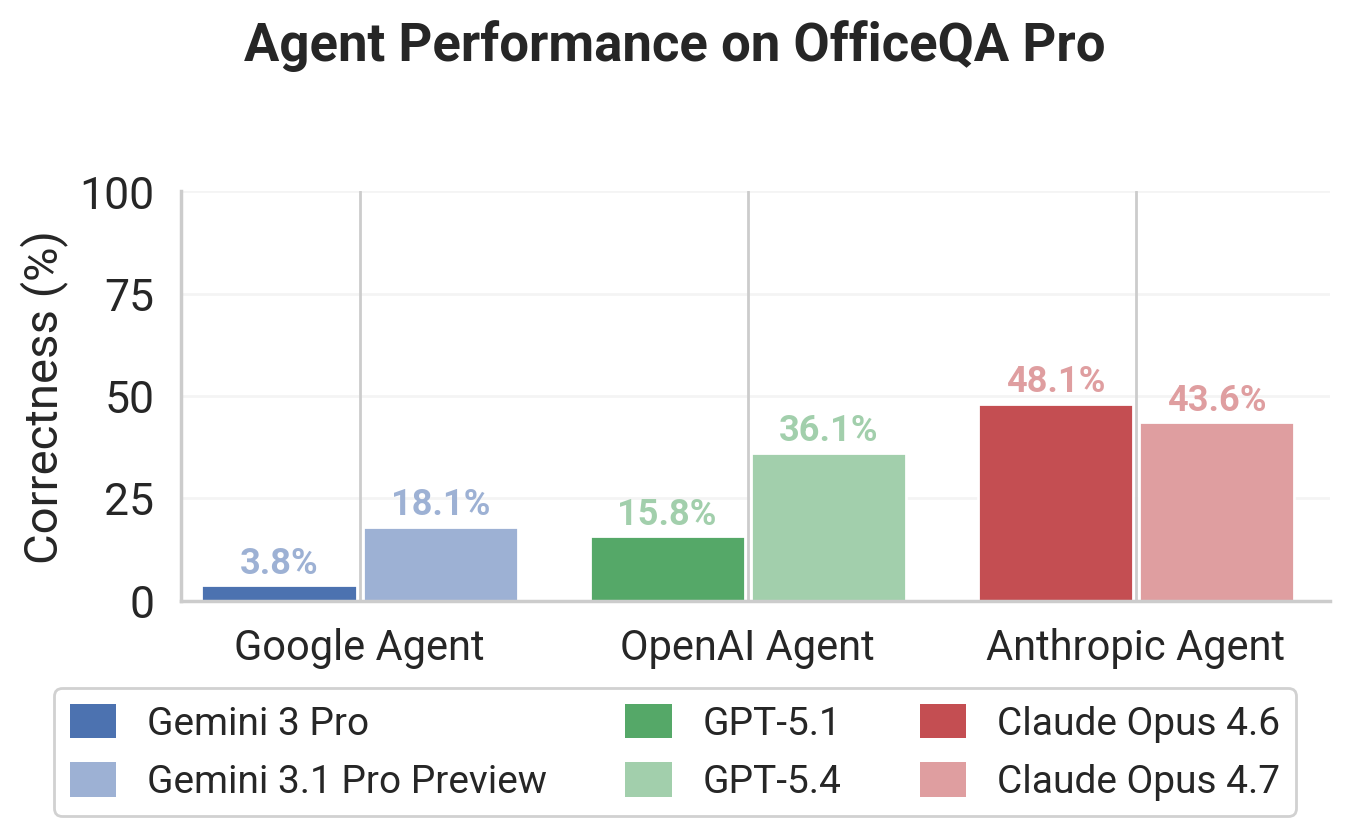
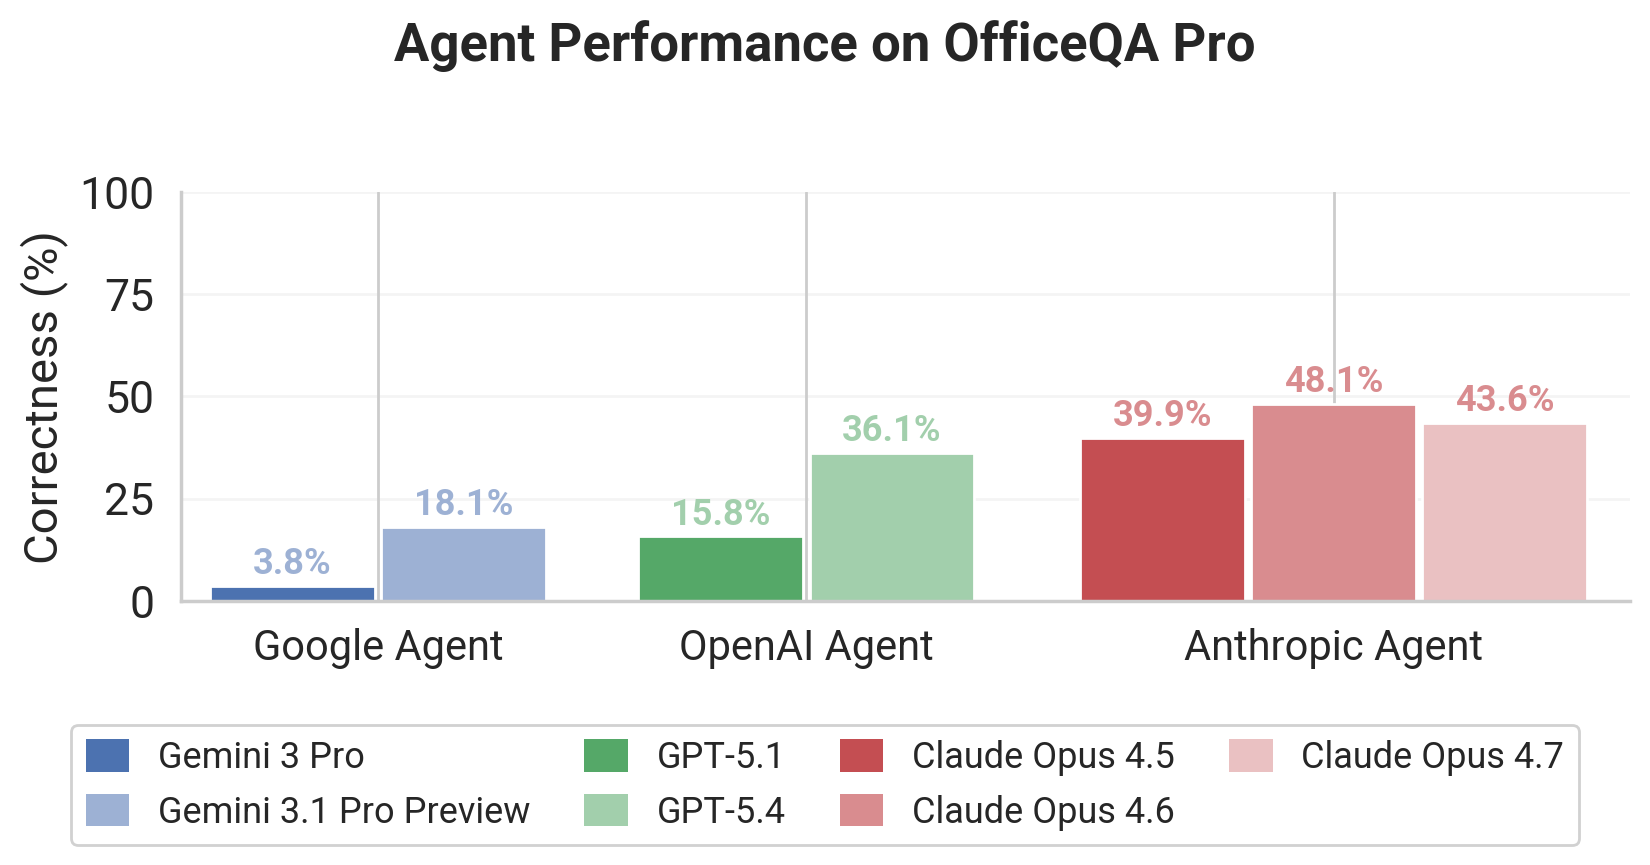
update figure for benchmarking progression

diff --git a/README.md b/README.md
@@ -1,38 +1,44 @@
-<div align="center">
-  <h1>OfficeQA</h1>
-  <p>A Grounded Reasoning Benchmark by Databricks</p>
-</div>
-<p align="center"><img width="300" src="logo.png"/></p>
+# OfficeQA
+
+A Grounded Reasoning Benchmark by Databricks
+
+
 
 **OfficeQA** is a benchmark by Databricks, built for evaluating model / agent performance on end to end **Grounded Reasoning** tasks. The benchmark is split into two subsets:
+
 1. **OfficeQA Pro**: The default for evaluating frontier models (N=133)
 2. **OfficeQA Full**: A version of the benchmark containing additional easier questions to hillclimb systems on (N=246)
 
 Additional details:
-* Questions require the **[U.S Treasury Bulletin](https://fraser.stlouisfed.org/title/treasury-bulletin-407?browse=1930s)** documents to answer
-* Datasets released under **CC-BY-SA 4.0** and code and scripts under **Apache 2.0 License**.
-* For more information, see the **[OfficeQA Technical Report](https://arxiv.org/abs/2603.08655)**
+
+- Questions require the **[U.S Treasury Bulletin](https://fraser.stlouisfed.org/title/treasury-bulletin-407?browse=1930s)** documents to answer
+- Datasets released under **CC-BY-SA 4.0** and code and scripts under **Apache 2.0 License**.
+- For more information, see the **[OfficeQA Technical Report](https://arxiv.org/abs/2603.08655)**
 
 ## Overview
 
 OfficeQA evaluates how well AI systems can reason over real-world documents to answer complex questions. The benchmark uses historical U.S. Treasury Bulletin PDFs (1939-2025), which contain dense financial tables, charts, and text data.
 
 **Repository Contents:**
+
 - `officeqa_pro.csv` - The default benchmark for evaluating frontier models (N=133)
 - `officeqa_full.csv` - A version of the benchmark containing additional easier questions to hillclimb systems on (N=246)
 - `reward.py` - Evaluation script for scoring model outputs
 - `treasury_bulletin_pdfs/` - Original source PDF documents (696 files, ~20GB)
 - `treasury_bulletins_parsed/` - Parsed and transformed versions (see more details below)
 
-**Dataset Schema (`officeqa_pro.csv` / `officeqa_full.csv`):**
-| Column | Description |
-|--------|-------------|
-| `uid` | Unique question identifier |
-| `question` | The question to answer |
-| `answer` | Ground truth answer |
-| `source_docs` | Original URL(s) from the Federal Reserve Archive |
+**Dataset Schema (**`officeqa_pro.csv` **/** `officeqa_full.csv`**):**
+
+
+| Column         | Description                                                              |
+| -------------- | ------------------------------------------------------------------------ |
+| `uid`          | Unique question identifier                                               |
+| `question`     | The question to answer                                                   |
+| `answer`       | Ground truth answer                                                      |
+| `source_docs`  | Original URL(s) from the Federal Reserve Archive                         |
 | `source_files` | Corresponding parsed filename(s) (e.g., `treasury_bulletin_1941_01.txt`) |
-| `difficulty` | `easy` or `hard` |
+| `difficulty`   | `easy` or `hard`                                                         |
+
 
 ## Results
 
@@ -42,24 +48,32 @@ Headline results on **OfficeQA Pro** (N=133). See the [OfficeQA Technical Report
 
 End-to-end performance of frontier agents operating over the Treasury Bulletin corpus.
 
-![Agent Performance on OfficeQA Pro](figures/officeqa_pro_agent_harness_performance.png)
+GPT-5.1 and Opus 4.5 Results included as reference point to results from the [OfficeQA blog](https://www.databricks.com/blog/introducing-officeqa-benchmark-end-to-end-grounded-reasoning) and re-run with latest OfficeQA Pro. Recorded on March 9 2026.
+
+GPT-5.4 and Opus 4.6 Results recorded on March 9 2026.
+Opus 4.7 Results recorded on April 21 2026.
+
+Agent Performance on OfficeQA Pro
 
 ### LLM with Oracle Page(s) + Web Search (PDF Only)
 
 LLM performance when provided the oracle page(s) needed to answer each question along with web search access, evaluated across varying absolute relative error tolerances.
 
-![Oracle Pages + Web Search — PDF Only](figures/officeqa_pro_llm_oracle_pdf_with_web_search.png)
+Oracle Pages + Web Search — PDF Only
 
 ## Getting Started
 
 ### 1. Clone the repository
+
 ```bash
 git clone https://github.com/databricks/officeqa.git
 cd officeqa
 ```
+
 NOTE: This may take a long time due to the large amount of PDF documents in `treasury_bulletin_pdfs`.
 
 ### 2. Load the dataset
+
 ```python
 import pandas as pd
 
@@ -77,14 +91,18 @@ print(f"OfficeQA Full questions: {len(df_full)}")  # 246
 We provide the Treasury Bulletin corpus in multiple formats:
 
 #### Option A: Original PDFs (`treasury_bulletin_pdfs/`)
+
 The raw PDF documents as downloaded from the Federal Reserve Archive. Use these if your system can process PDFs directly.
+
 - **696 PDF files** covering 1939-2025
 - Total size: ~20GB
 
 #### Option B: Parsed Documents (`treasury_bulletins_parsed/`)
+
 Pre-parsed versions of the PDFs. The files are distributed as zip archives to stay within Git file size limits.
 
 **Structure:**
+
 ```
 treasury_bulletins_parsed/
 ├── jsons/                    # Parsed JSON files with full structure
@@ -98,12 +116,14 @@ treasury_bulletins_parsed/
 ```
 
 **To extract the files:**
+
 ```bash
 cd treasury_bulletins_parsed
 python unzip.py
 ```
 
 This will extract:
+
 - `jsons/*.json` - Full parsed documents with bounding boxes, tables as HTML, and element metadata
 - `transformed/*.txt` - Simplified text format with tables converted to Markdown (more readable for LLMs)
 
@@ -113,19 +133,23 @@ The representation of the parsed documents can impact model performance. For rep
 
 New transformation scripts to adapt the raw parsed data can also be found and added to `treasury_bulletins_parsed/transform_scripts/`.
 
-For example, a new file (`transform_files_page_level.py`) was recently added to add page level markers in the transformed parsed documents.
+For example, a new file (`transform_files_page_level.py`) was recently added to add page level markers in the transformed parsed documents.  
 Data transformations can be run using:
+
 ```
 cd treasury_bulletins_parsed/transform_scripts
 python transform_parsed_files.py
 ```
 
 #### Which format should I use?
-| Format | Best for | Size |
-|--------|----------|------|
-| PDFs | Systems with native PDF support, or you want to parse from scratch | ~20GB |
-| Parsed JSON | Full structural information, coordinates | ~600MB |
-| Transformed TXT | LLM/agent consumption, cleaner text | ~200MB |
+
+
+| Format          | Best for                                                           | Size   |
+| --------------- | ------------------------------------------------------------------ | ------ |
+| PDFs            | Systems with native PDF support, or you want to parse from scratch | ~20GB  |
+| Parsed JSON     | Full structural information, coordinates                           | ~600MB |
+| Transformed TXT | LLM/agent consumption, cleaner text                                | ~200MB |
+
 
 #### Mapping source URLs to parsed files
 
@@ -136,6 +160,7 @@ The `source_files` column in the dataset CSVs provides the direct filenames (e.g
 **Filename format:** `treasury_bulletin_{YEAR}_{MONTH_NUM}.{ext}`
 
 **Month name to number mapping:**
+
 ```
 january   → 01    july      → 07
 february  → 02    august    → 08
@@ -146,12 +171,14 @@ june      → 06    december  → 12
 ```
 
 **Example:**
+
 - URL: `https://fraser.stlouisfed.org/title/treasury-bulletin-407/january-1941-6529`
 - JSON file: `treasury_bulletins_parsed/jsons/treasury_bulletin_1941_01.json`
 - Text file: `treasury_bulletins_parsed/transformed/treasury_bulletin_1941_01.txt`
 - PDF file: `treasury_bulletin_pdfs/treasury_bulletin_1941_01.pdf`
 
 ### 4. Evaluate your model outputs
+
 ```python
 from reward import score_answer
 
@@ -167,8 +194,10 @@ print(f"Score: {score}")  # 1.0 for correct, 0.0 for incorrect
 ## Evaluation
 
 The `reward.py` script provides fuzzy matching for numerical answers with configurable tolerance levels:
+
 - `0.0%` - Exact match
 - `0.1%` - Within 0.1% relative error
 - `1.0%` - Within 1% relative error
-- `5.0%` - Within 5% relative error
+- `5.0%` - Within 5% relative error  
 etc.
+
